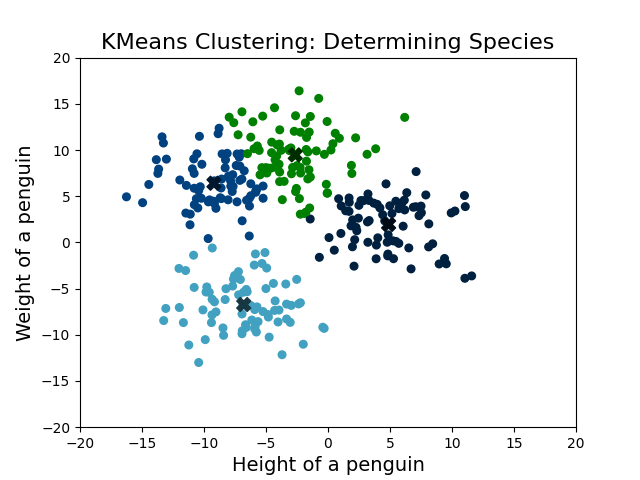
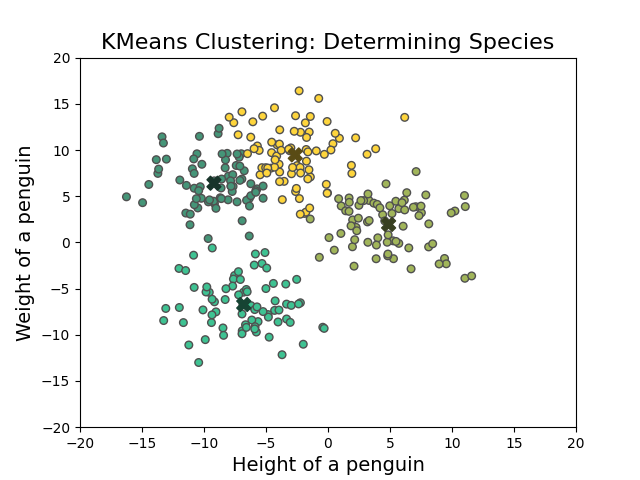
Adapted some existing plots for better readability

diff --git a/CCPlots/implementation/KMeansExample.py b/CCPlots/implementation/KMeansExample.py
@@ -9,10 +9,14 @@ from matplotlib.animation import FuncAnimation
 from matplotlib.colors import to_rgba
 
 from CCPlots.PlotExample import PlotExample
-from CCPlots.config import THEME, OUTPUT_PATH
+from CCPlots.config import CMAP_BRAND, OUTPUT_PATH, COLOR_PALETTE
 
 
 class KMeansExample(PlotExample):
+
+    # We use a dark gray for the edges of the data points, so they'll be
+    # visible using any brand's colours
+    DARK_GRAY = COLOR_PALETTE['neutral_colors']['dark_gray']
 
     def __init__(self, n_clusters=4, n_samples=300):
         self.n_clusters = n_clusters
@@ -21,7 +25,7 @@ class KMeansExample(PlotExample):
         self.kmeans = KMeans(n_clusters=self.n_clusters, init='random', n_init=1, max_iter=1, algorithm='lloyd', random_state=42)
 
         # Generate colors from the specified colormap
-        cmap = plt.get_cmap(THEME)
+        cmap = plt.get_cmap(CMAP_BRAND)
         self.cluster_colors = [cmap(i / self.n_clusters) for i in range(self.n_clusters)]
         self.center_colors = [self.darken_color(cmap(i / self.n_clusters)) for i in range(self.n_clusters)]
 
@@ -30,8 +34,8 @@ class KMeansExample(PlotExample):
         ax.set_xlim(-20, 20)
         ax.set_ylim(-20, 20)
 
-        # Initial points are grey
-        self.scatter = ax.scatter(self.X[:, 0], self.X[:, 1], s=30, c='grey', edgecolor='k')
+        # Initial points are grey, with a black outline
+        self.scatter = ax.scatter(self.X[:, 0], self.X[:, 1], s=30, c='grey', edgecolor=self.DARK_GRAY)
         self.centers = ax.scatter([], [], s=100, marker='X')  # Centers will use darker versions of cluster colors
 
         ax.set_title("KMeans Clustering: Determining Species", fontsize=16)
@@ -39,7 +43,13 @@ class KMeansExample(PlotExample):
         ax.set_ylabel("Weight of a penguin", fontsize=14)
 
         # More frames and a smaller interval to show the process better
-        ani = FuncAnimation(fig, self.update, frames=30, init_func=self.init_func, interval=10, repeat=False)
+        ani = FuncAnimation(fig,
+                            self.update,
+                            frames=30,
+                            init_func=self.init_func,
+                            interval=10,
+                            repeat=False)
+        # Save the animation
         ani.save(OUTPUT_PATH + "kmeans_animation.gif", writer='pillow')
 
         # Also save the last frame for non-animated use
@@ -59,7 +69,10 @@ class KMeansExample(PlotExample):
         labels = self.kmeans.labels_
         scatter_colors = [self.cluster_colors[label] for label in labels]
 
+        # Now we need to update the plot to reflect the right colours and re-draw
+        # the edges for better visibility
         self.scatter.set_color(scatter_colors)
+        self.scatter.set_edgecolor(self.DARK_GRAY)
         self.centers.set_offsets(self.kmeans.cluster_centers_)
         self.centers.set_color([self.center_colors[label] for label in range(self.n_clusters)])
         return self.scatter, self.centers

diff --git a/CCPlots/config.py b/CCPlots/config.py
@@ -30,6 +30,7 @@ COLOR_PALETTE = {
         "white": "#FFFFFF",
         "light_gray": "#EFEFEF",
         "medium_gray": "#8C8C8C",
+        "dark_gray": "#505050",
         "charcoal": "#333333"
     },
     "accent_colors": {
@@ -41,6 +42,11 @@ COLOR_PALETTE = {
 }
 
 # Define a list of colors for a colour map (white to green)
-CUSTOM_CMAP = mcolors.LinearSegmentedColormap.from_list(name="custom_cmap",
-                                                        colors=[COLOR_PALETTE['neutral_colors']['white'], COLOR_PALETTE['base_colors']['medium_green']],
-                                                        N=256)
+CMAP_WHITE = mcolors.LinearSegmentedColormap.from_list(name="custom_cmap",
+                                                       colors=[COLOR_PALETTE['neutral_colors']['white'], COLOR_PALETTE['base_colors']['medium_green']],
+                                                       N=256)
+
+# Colourful custom colour map
+CMAP_BRAND = mcolors.LinearSegmentedColormap.from_list(name="custom_cmap",
+                                                       colors=[COLOR_PALETTE['base_colors']['bright_yellow'], COLOR_PALETTE['base_colors']['medium_green'], COLOR_PALETTE['base_colors']['bright_teal']],
+                                                       N=256)

diff --git a/CCPlots/implementation/EvaluationMetricsExample.py b/CCPlots/implementation/EvaluationMetricsExample.py
@@ -3,7 +3,7 @@ import numpy as np
 import seaborn as sns
 
 from CCPlots.PlotExample import PlotExample
-from CCPlots.config import OUTPUT_PATH, CUSTOM_CMAP
+from CCPlots.config import OUTPUT_PATH, CMAP_WHITE
 
 
 class EvaluationMetricsExample(PlotExample):
@@ -23,7 +23,7 @@ class EvaluationMetricsExample(PlotExample):
 
         # Create the heatmap
         plt.figure(figsize=(8, 6))
-        ax = sns.heatmap(conf_matrix, annot=group_labels, fmt="", cmap=CUSTOM_CMAP, cbar=True,
+        ax = sns.heatmap(conf_matrix, annot=group_labels, fmt="", cmap=CMAP_WHITE, cbar=True,
                          xticklabels=["Predicted Healthy", "Predicted Sick"],
                          yticklabels=["Is Healthy", "Is Sick"])
 
